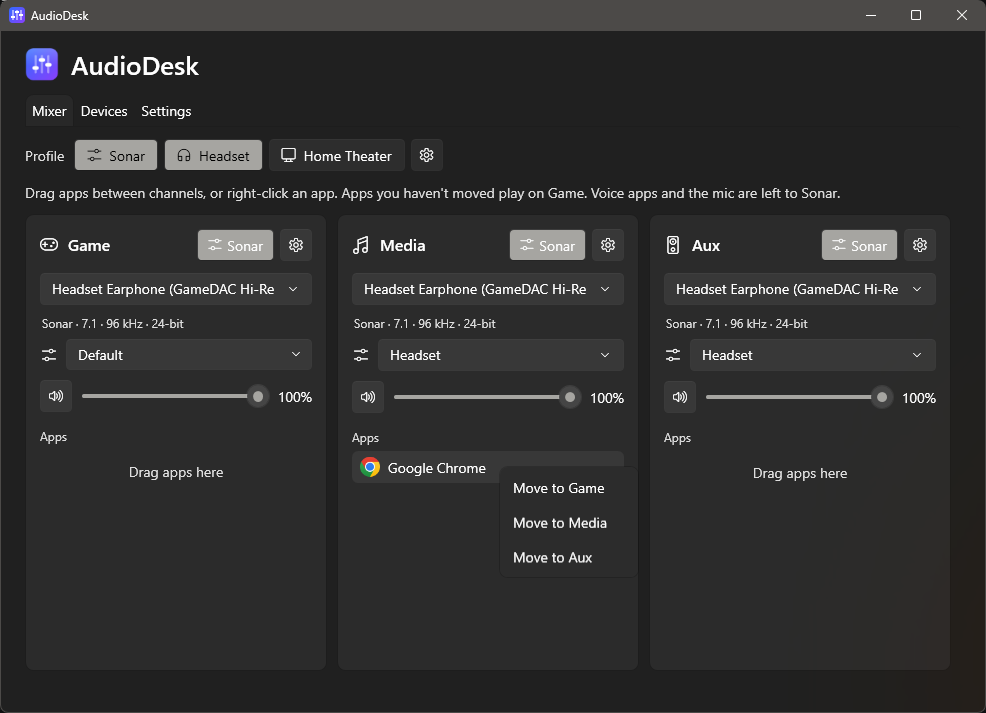
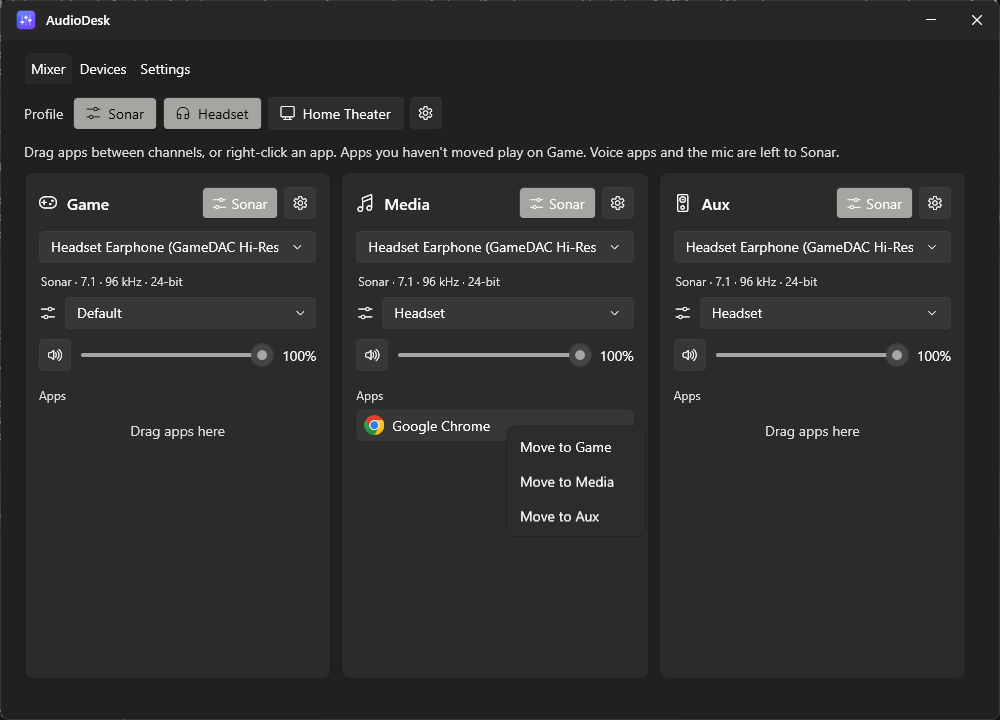
Own title bar like Knob Hub's, fixed window size; version 1.0.3
The window draws its own title bar (WindowChrome): a small logo and name, then Minimize and Close. No Maximize,
and the window can't be resized. The large in-window heading is gone. README screenshots retaken.

diff --git a/MainWindow.xaml b/MainWindow.xaml
@@ -4,8 +4,14 @@
         xmlns:local="clr-namespace:AudioDesk"
         Title="AudioDesk"
         Icon="Assets/AudioDesk.ico"
-        Width="1000" Height="720" MinWidth="820" MinHeight="520"
-        WindowStartupLocation="CenterScreen">
+        Width="1000" Height="720" ResizeMode="CanMinimize"
+        WindowStartupLocation="CenterScreen" Background="{DynamicResource SolidBackgroundFillColorBaseBrush}">
+
+    <!-- AudioDesk draws its own title bar (below), like Knob Hub's; Windows still moves the window. Fixed size: no
+         resizing or maximizing. -->
+    <WindowChrome.WindowChrome>
+        <WindowChrome CaptionHeight="40" ResizeBorderThickness="0" GlassFrameThickness="0,0,0,1" UseAeroCaptionButtons="False" />
+    </WindowChrome.WindowChrome>
 
     <Window.Resources>
         <BooleanToVisibilityConverter x:Key="BoolToVisibility" />
@@ -18,6 +24,47 @@
 
         <Style x:Key="SecondaryText" TargetType="TextBlock">
             <Setter Property="Foreground" Value="{DynamicResource TextFillColorSecondaryBrush}" />
+        </Style>
+
+        <!-- The title bar's minimise / close buttons, like Windows' own. -->
+        <Style x:Key="CaptionButton" TargetType="Button">
+            <Setter Property="Width" Value="46" />
+            <Setter Property="Height" Value="40" />
+            <Setter Property="FontFamily" Value="{StaticResource IconFont}" />
+            <Setter Property="FontSize" Value="10" />
+            <Setter Property="Foreground" Value="{DynamicResource TextFillColorPrimaryBrush}" />
+            <Setter Property="Background" Value="Transparent" />
+            <Setter Property="IsTabStop" Value="False" />
+            <Setter Property="WindowChrome.IsHitTestVisibleInChrome" Value="True" />
+            <Setter Property="Template">
+                <Setter.Value>
+                    <ControlTemplate TargetType="Button">
+                        <Border Background="{TemplateBinding Background}">
+                            <ContentPresenter HorizontalAlignment="Center" VerticalAlignment="Center" />
+                        </Border>
+                    </ControlTemplate>
+                </Setter.Value>
+            </Setter>
+            <Style.Triggers>
+                <Trigger Property="IsMouseOver" Value="True">
+                    <Setter Property="Background" Value="{DynamicResource SubtleFillColorSecondaryBrush}" />
+                </Trigger>
+                <Trigger Property="IsPressed" Value="True">
+                    <Setter Property="Background" Value="{DynamicResource SubtleFillColorTertiaryBrush}" />
+                </Trigger>
+            </Style.Triggers>
+        </Style>
+        <Style x:Key="CloseCaptionButton" TargetType="Button" BasedOn="{StaticResource CaptionButton}">
+            <Style.Triggers>
+                <Trigger Property="IsMouseOver" Value="True">
+                    <Setter Property="Background" Value="#C42B1C" />
+                    <Setter Property="Foreground" Value="White" />
+                </Trigger>
+                <Trigger Property="IsPressed" Value="True">
+                    <Setter Property="Background" Value="#B3271C" />
+                    <Setter Property="Foreground" Value="White" />
+                </Trigger>
+            </Style.Triggers>
         </Style>
 
         <Style x:Key="Badge" TargetType="Border">
@@ -361,21 +408,34 @@
         </DataTemplate>
     </Window.Resources>
 
-    <Grid Margin="24,16,24,12">
+    <Grid>
         <Grid.RowDefinitions>
-            <RowDefinition Height="Auto" />
-            <RowDefinition Height="Auto" />
+            <RowDefinition Height="40" />
+            <RowDefinition Height="*" />
+        </Grid.RowDefinitions>
+
+        <!-- The title bar: logo and name on the left, the window's buttons on the right; drag it to move the window. -->
+        <DockPanel Background="{DynamicResource LayerFillColorDefaultBrush}">
+            <StackPanel DockPanel.Dock="Right" Orientation="Horizontal">
+                <Button Style="{StaticResource CaptionButton}" Content="&#xE921;" ToolTip="Minimize" Click="Minimize_Click"
+                        AutomationProperties.Name="Minimize" />
+                <Button Style="{StaticResource CloseCaptionButton}" Content="&#xE8BB;" ToolTip="Close" Click="Close_Click"
+                        AutomationProperties.Name="Close" />
+            </StackPanel>
+            <StackPanel Orientation="Horizontal" Margin="16,0,0,0" VerticalAlignment="Center">
+                <Image Source="Assets/logo-64.png" Width="20" Height="20" VerticalAlignment="Center"
+                       RenderOptions.BitmapScalingMode="HighQuality" />
+                <TextBlock Text="AudioDesk" FontSize="13" FontWeight="SemiBold" Margin="10,0,0,0" VerticalAlignment="Center" />
+            </StackPanel>
+        </DockPanel>
+
+    <Grid Grid.Row="1" Margin="24,12,24,12">
+        <Grid.RowDefinitions>
             <RowDefinition Height="*" />
             <RowDefinition Height="Auto" />
         </Grid.RowDefinitions>
 
-        <StackPanel Orientation="Horizontal">
-            <Image Source="Assets/logo-64.png" Width="34" Height="34" VerticalAlignment="Center" Margin="0,0,12,0"
-                   RenderOptions.BitmapScalingMode="HighQuality" />
-            <TextBlock Text="AudioDesk" FontSize="26" FontWeight="SemiBold" VerticalAlignment="Center" />
-        </StackPanel>
-
-        <TabControl Grid.Row="2" Margin="0,12,0,0">
+        <TabControl>
             <TabItem Header="Mixer">
                 <DockPanel Margin="0,12,0,0">
                     <DockPanel DockPanel.Dock="Top" Margin="0,0,0,12">
@@ -586,6 +646,7 @@
             </TabItem>
         </TabControl>
 
-        <TextBlock x:Name="StatusText" Grid.Row="3" Margin="0,10,0,0" Style="{StaticResource SecondaryText}" TextTrimming="CharacterEllipsis" />
+        <TextBlock x:Name="StatusText" Grid.Row="1" Margin="0,10,0,0" Style="{StaticResource SecondaryText}" TextTrimming="CharacterEllipsis" />
+    </Grid>
     </Grid>
 </Window>

diff --git a/MainWindow.xaml.cs b/MainWindow.xaml.cs
@@ -58,6 +58,12 @@ public partial class MainWindow : Window
         StateChanged += (_, _) => UpdateMetersEnabled();
     }
 
+    // --- The title bar ---
+
+    private void Minimize_Click(object sender, RoutedEventArgs e) => WindowState = WindowState.Minimized;
+
+    private void Close_Click(object sender, RoutedEventArgs e) => Close();
+
     private readonly MeterService _meters;
     private IReadOnlyDictionary<Channel, float>? _pendingLevels;
 

diff --git a/CLAUDE.md b/CLAUDE.md
@@ -26,7 +26,8 @@ A running AudioDesk locks its files: `AudioDesk.exe --exit` closes it (and waits
   `MeterService`, `KeepAwakeService`, `AudioEffects`.
 - `LocalApi.cs`: named pipe `AudioDesk.Api` (JSON lines), used by Knob Hub's AudioDesk app. Started and stopped by the
   **Knob support** setting (`MixerConfig.LocalApiEnabled`).
-- `ViewModels.cs`, `MainWindow.xaml(.cs)`: Mixer, Devices and Settings tabs. `TrayIcon.cs`, `App.xaml.cs` (startup,
+- `ViewModels.cs`, `MainWindow.xaml(.cs)`: Mixer, Devices and Settings tabs, under its own title bar (`WindowChrome`,
+  like Knob Hub's; fixed size, so only Minimize and Close). `TrayIcon.cs`, `App.xaml.cs` (startup,
   single instance, `--selftest`), `Updates/UpdateService.cs` (GitHub releases, verified MSI download).
 
 ## Rules
